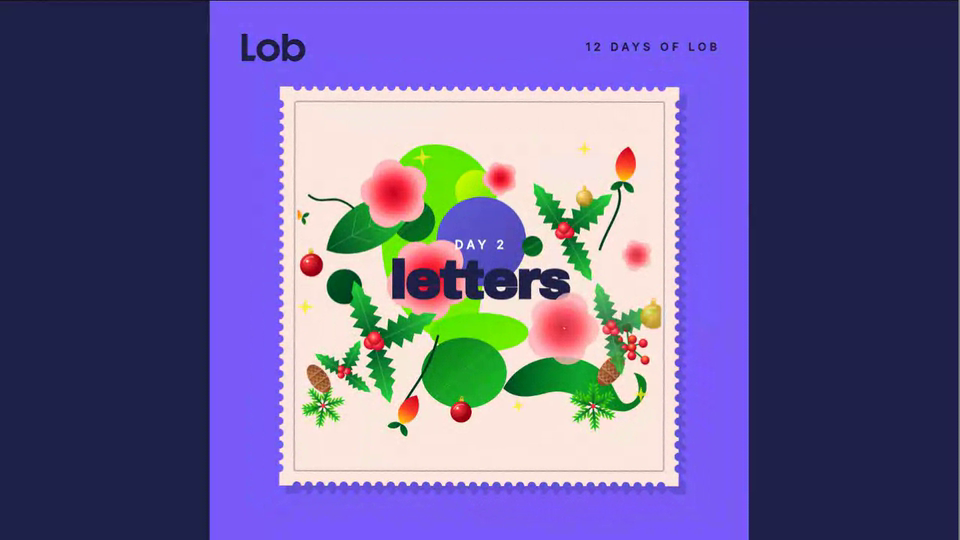
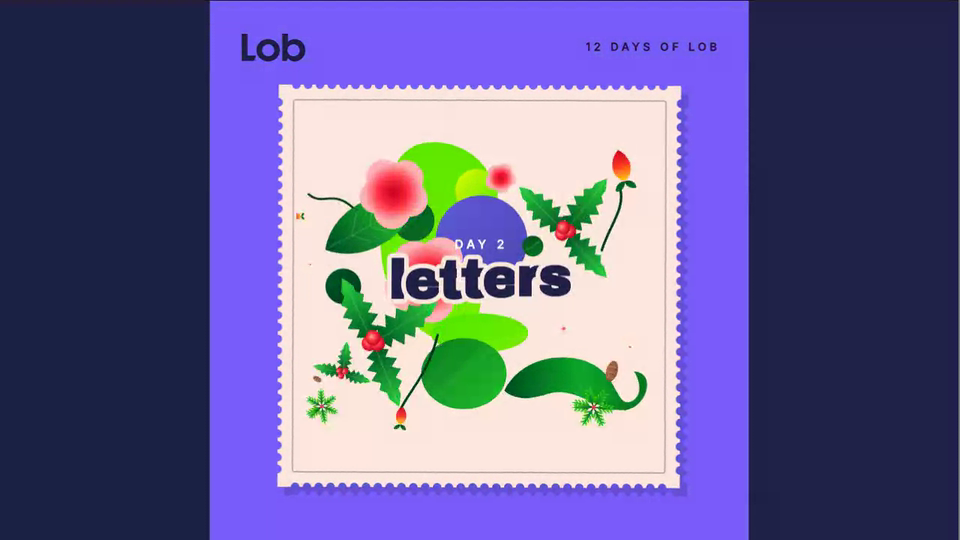
Lob 12 Days Advent: cream halo and top layer for the title so letters stay legible over the botanicals
Claude-Session: https://claude.ai/code/session_01AHeBdxfESGkB61WPERPkmT

Changed region(s): [[0.2812, 0.1481, 0.7188, 0.9185], [0.375, 0.237, 0.5, 0.3259], [0.4688, 0.7407, 0.5, 0.8]]

diff --git a/lob-12-days/index.html b/lob-12-days/index.html
@@ -157,7 +157,7 @@ function stampPath(w,h,n,m){const pw=w/n,ph=h/m;
 function bigText(str,y,maxW,ex){const f='900 200px "Archivo Black","Arial Black",Arial,sans-serif';x.save();x.font=f;x.letterSpacing='-8px';x.textAlign='left';x.textBaseline='alphabetic';
   x.letterSpacing='-8px';let sz=170;titles.forEach(t=>{const w=x.measureText(t.toLowerCase()).width;sz=Math.min(sz,200*maxW/w*1.0)});x.font=f.replace('200px',sz+'px');x.letterSpacing=(-.04*sz)+'px';
   const cw=[...str].map(c=>x.measureText(c).width),tot=cw.reduce((a,b)=>a+b,0);let cx=540-tot/2;
-  [...str].forEach((c,i)=>{const pp=eob(cl((lt-.5-i*.045)/.5))*ex;x.save();x.globalAlpha=cl(pp*1.4);x.translate(cx,y+(1-pp)*70);x.fillStyle=NAVY;x.fillText(c,0,0);x.restore();cx+=cw[i]});x.restore()}
+  [...str].forEach((c,i)=>{const pp=eob(cl((lt-.5-i*.045)/.5))*ex;x.save();x.globalAlpha=cl(pp*1.4);x.translate(cx,y+(1-pp)*70);x.lineJoin='round';x.strokeStyle=CREAM;x.lineWidth=sz*.17;x.strokeText(c,0,0);x.fillStyle=NAVY;x.fillText(c,0,0);x.restore();cx+=cw[i]});x.restore()}
 function smallText(str,y,size,delay,ex,col){const p=eio(cl((lt-delay)/.4))*ex,ls=size*.3;x.save();x.globalAlpha=p;x.font='700 '+size+'px "Inter",Arial,sans-serif';x.letterSpacing=ls+'px';x.textAlign='center';x.fillStyle=col;x.fillText(str.toUpperCase(),540+ls/2,y+(1-p)*18);x.restore()}
 function draw(){
   x.setTransform(1,0,0,1,0,0);x.clearRect(0,0,S,S);
@@ -173,8 +173,8 @@ function draw(){
   x.translate(-540,-572);
   const scene=front=>{x.save();x.translate(540,572);x.scale(.6,.6);x.translate(-750,-590);sceneDraw(front,ex);x.restore()};
   scene(false);
-  bigText(titles[day].toLowerCase(),596,640,ex);
-  scene(true);smallText('day '+(day+1),497,24,.4,ex,'#fff');
+  scene(true);
+  bigText(titles[day].toLowerCase(),596,640,ex);smallText('day '+(day+1),497,24,.4,ex,'#fff');
   x.restore();
   logo(64,66,128,NAVY);
   x.save();x.font='700 22px "Inter",Arial,sans-serif';x.letterSpacing='7px';x.textAlign='right';x.fillStyle=NAVY;x.fillText('12 DAYS OF LOB',S-64+7,100);x.restore();
